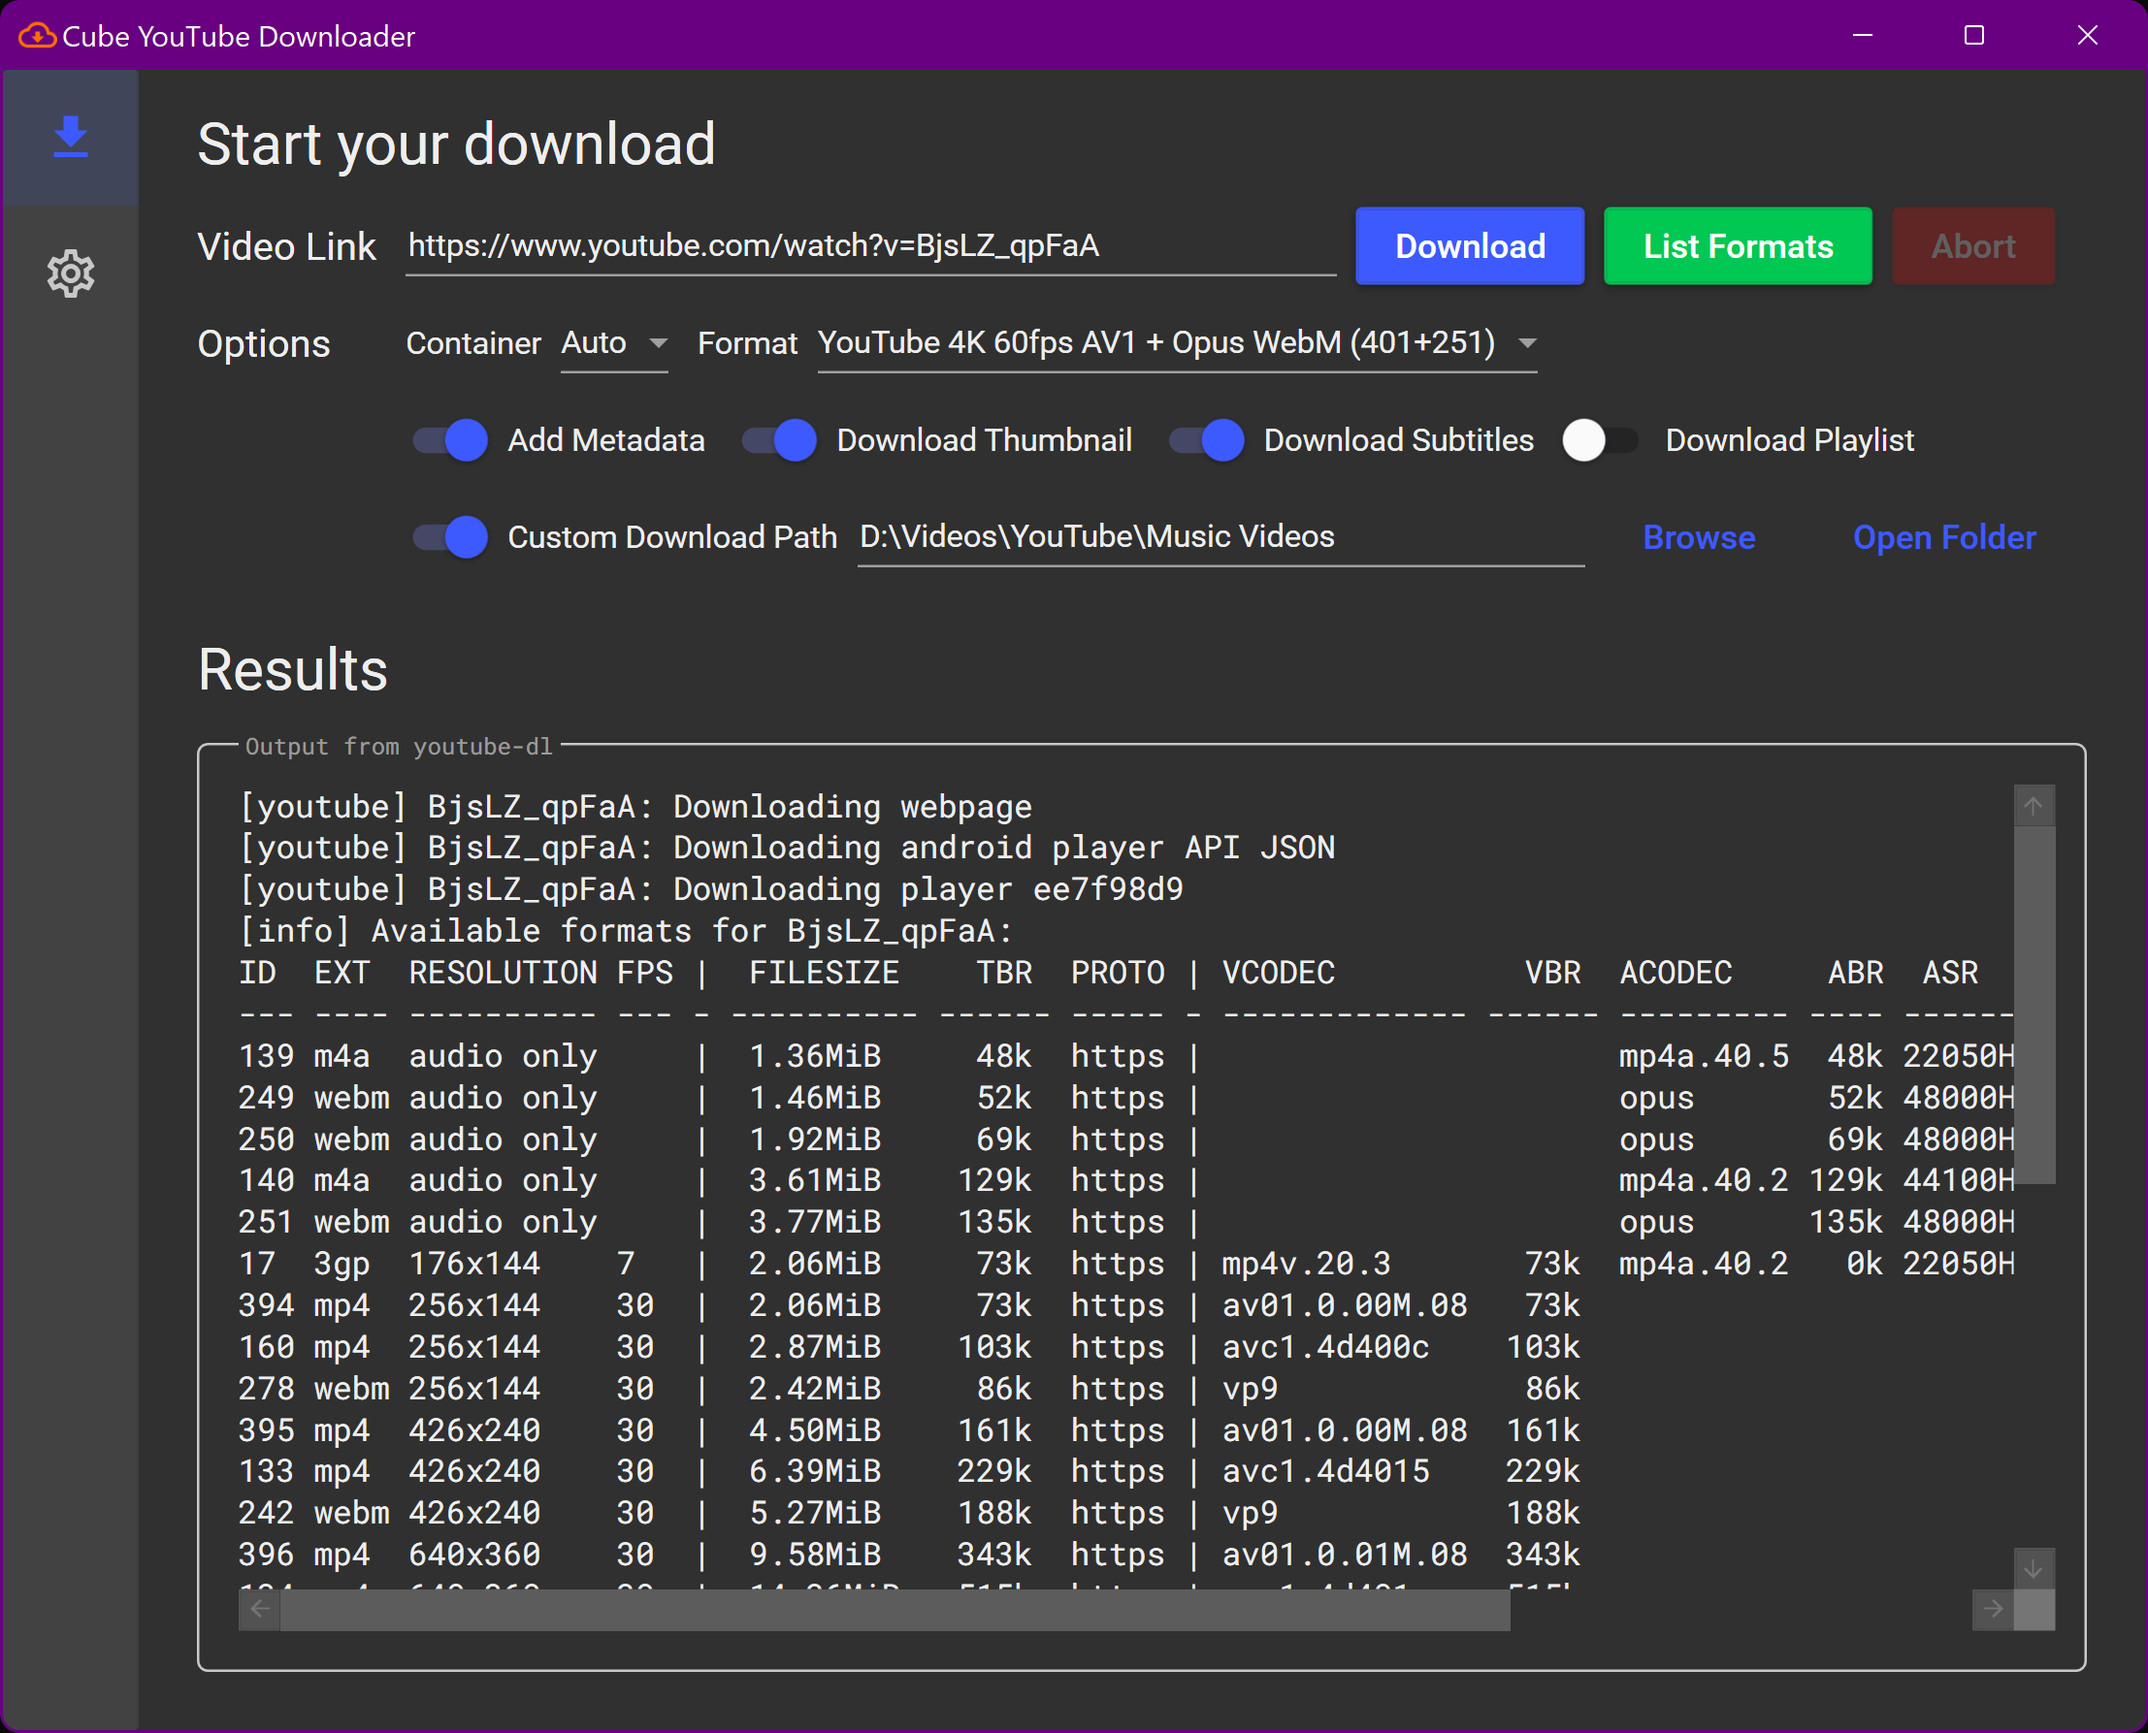
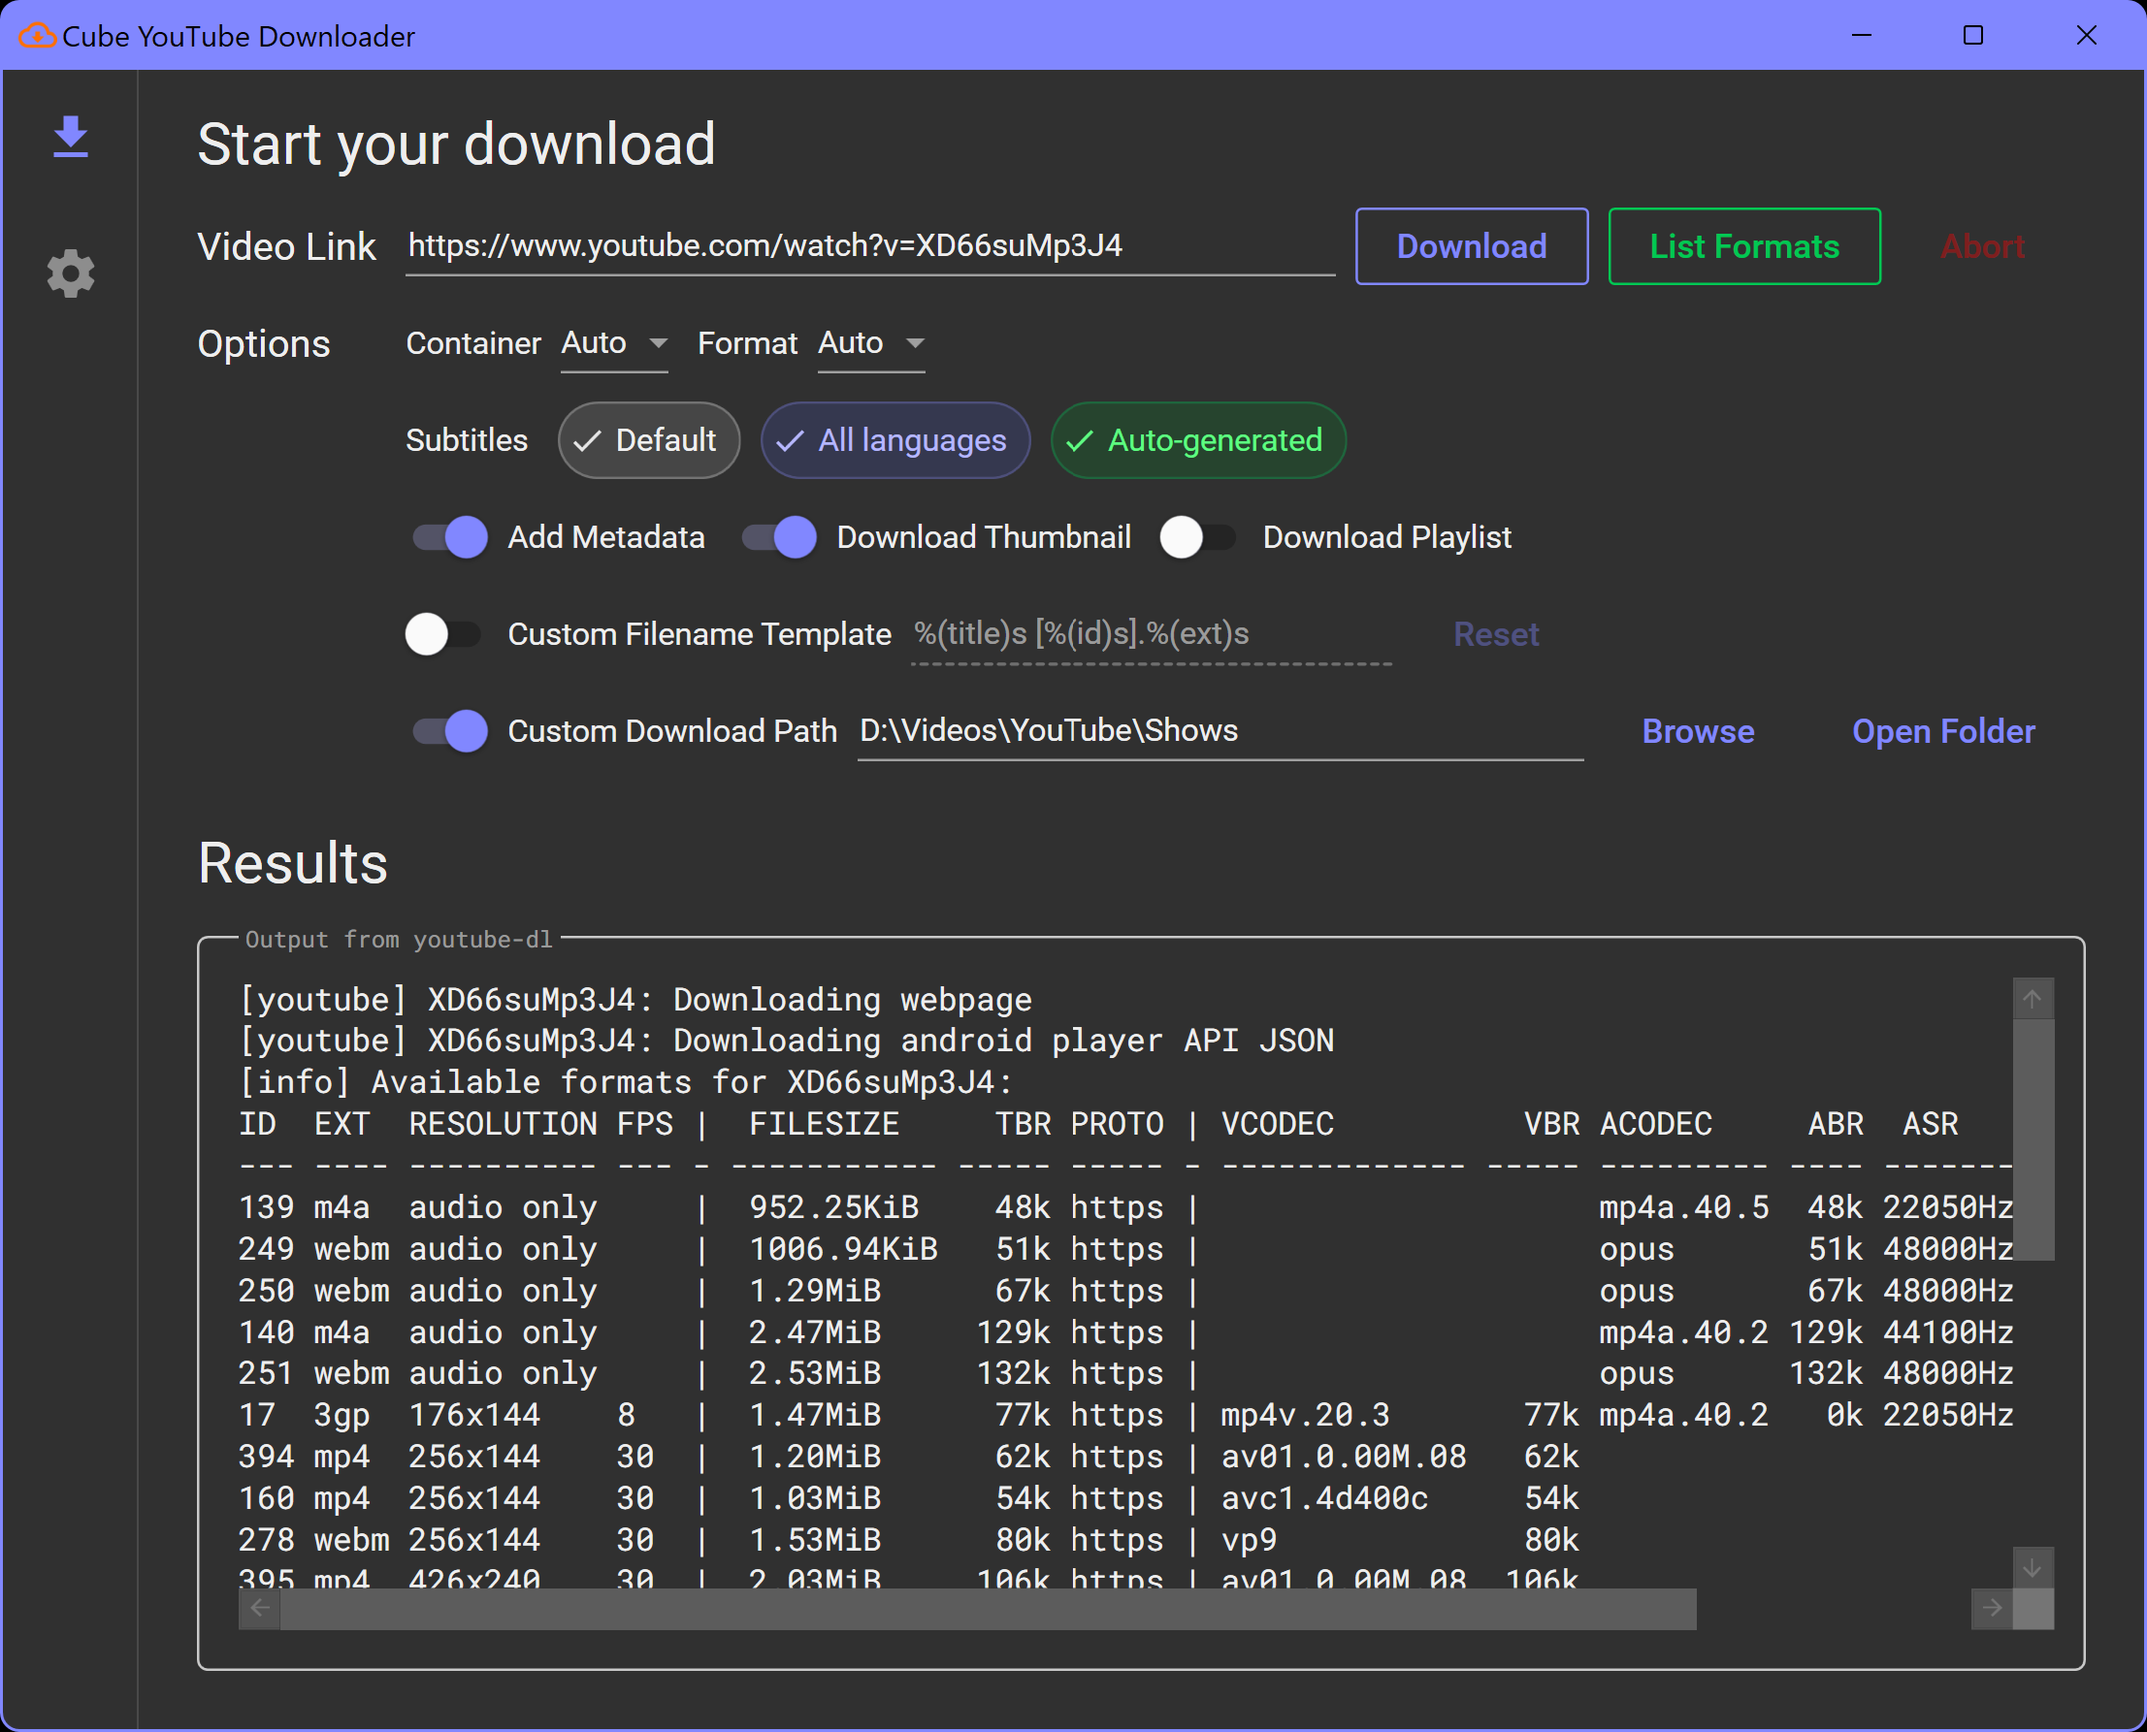
🔼 Bump version to v1.9 and update screenshots and README

diff --git a/README.md b/README.md
@@ -15,8 +15,10 @@ A simple GUI wrapper for [`youtube-dl`](https://github.com/ytdl-org/youtube-dl) 
 - List all available formats.
 - Override video, audio formats and output container.
 - Embed metadata into downloaded file.
-- Download and embed thumbnails and subtitles.
+- Download and embed thumbnails.
 - Download playlists.
+- Select types of subtitles (default, all languages, auto-generated) to download and embed.
+- Specify custom download filename template.
 - Specify custom download path.
 - Specify custom `ffmpeg` path.
 - Specify custom proxy.
